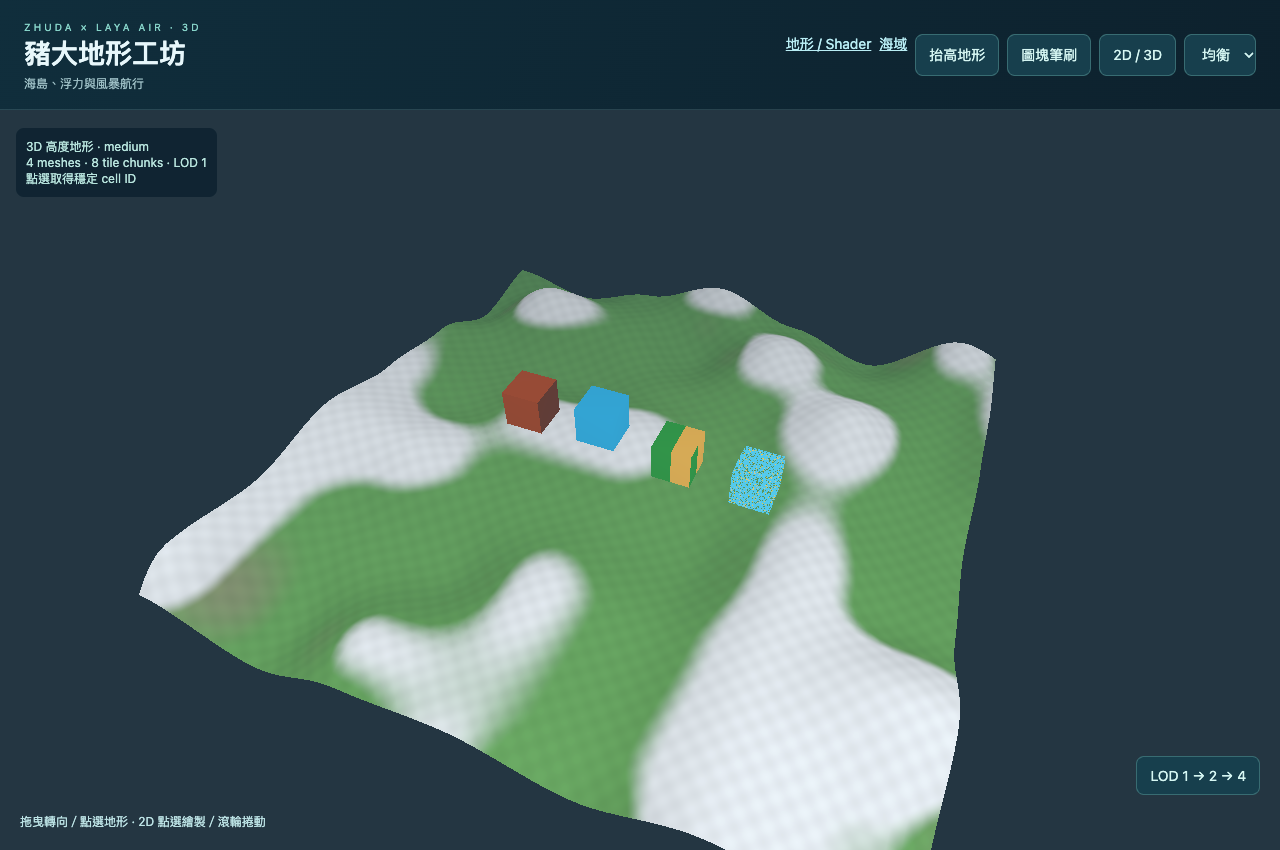
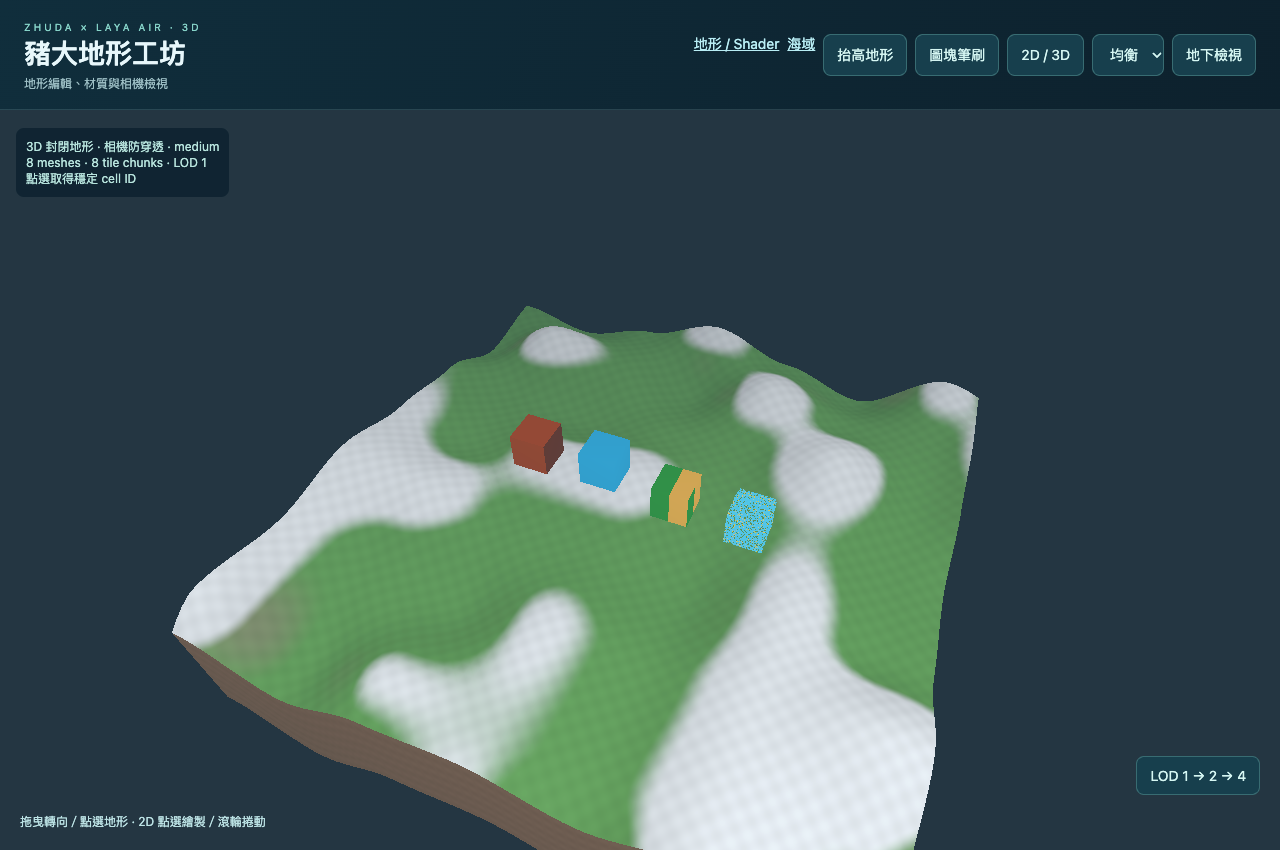
feat: close terrain volumes and add underground inspection

diff --git a/src/TerrainLab.ts b/src/TerrainLab.ts
@@ -36,6 +36,7 @@ export async function terrainMain() {
     mode,
     stride,
     quality,
+    underground,
     field: field.toJSON(),
     tiles: tiles.toJSON(),
   });
@@ -79,7 +80,17 @@ export async function terrainMain() {
       backingHeight: ctx.canvas.height,
     };
   });
-  const terrainShader = new ZhudaShaderMaterial(shaderRecipes.terrain3D),
+  const rockShader = new ZhudaShaderMaterial({
+      ...shaderRecipes.terrain3D,
+      name: "ZhudaTerrainRockShell",
+      uniforms: {
+        ...shaderRecipes.terrain3D.uniforms,
+        u_ZhudaGrass: { type: "vec3", value: [0.22, 0.15, 0.12] },
+        u_ZhudaRock: { type: "vec3", value: [0.36, 0.25, 0.18] },
+        u_ZhudaSnowLine: { type: "float", value: 100 },
+      },
+    }),
+    terrainShader = new ZhudaShaderMaterial(shaderRecipes.terrain3D),
     tint = new ZhudaShaderMaterial(shaderRecipes.tint2D),
     dissolve = new ZhudaShaderMaterial(shaderRecipes.dissolve3D);
   const pixels = new Uint8Array(8 * 4 * 4);
@@ -95,6 +106,10 @@ export async function terrainMain() {
   const textured = new ZhudaShaderMaterial(shaderRecipes.textured3D, {
     u_ZhudaTexture: atlasData,
   });
+  const noFog = new ZhudaShaderMaterial(
+    { ...shaderRecipes.textured3D, name: "ZhudaNoFogFixture", fog: false },
+    { u_ZhudaTexture: atlasData },
+  );
   let field = ZhudaHeightfield.generate({
     cellsX: 64,
     cellsZ: 64,
@@ -135,6 +150,7 @@ export async function terrainMain() {
   let terrain = new ZhudaTerrain3D(field, {
       parent: scene,
       material: terrainShader.material,
+      solid: { depth: 12, material: rockShader.material },
       chunkCells: 32,
       maxResidentChunks: 4,
     }),
@@ -149,6 +165,15 @@ export async function terrainMain() {
   terrain.setRegion(full);
   const queries = new ZhudaSceneQueries();
   let off = queries.register(terrain.queryProvider("terrain", 4));
+  const collision = { queries, radius: 0.5, clearance: 0.3, layerMask: 4 };
+  let underground = false;
+  rig.options.collision = collision;
+  const setUnderground = (value: boolean) => {
+    underground = value;
+    rig.options.collision = value ? undefined : collision;
+    rig.pitch = value ? -0.5 : 0.8;
+    $("underground").textContent = value ? "返回地上／防穿透" : "地下檢視";
+  };
   const pbr = createSurfaceMaterial({
       type: "pbr",
       color: [0.7, 0.3, 0.14, 1],
@@ -190,12 +215,17 @@ export async function terrainMain() {
   const samples: number[] = [];
   const sampleModes: (2 | 3)[] = [];
   const sampleModeFrames = { 2: 0, 3: 0 };
-  const modeFrames={2:0,3:0};
-  let sampleCursor = 0, excludedGaps = 0, totalFrames = 0;
+  const modeFrames = { 2: 0, 3: 0 };
+  let sampleCursor = 0,
+    excludedGaps = 0,
+    totalFrames = 0;
   const profiler = new ZhudaRuntimeProfiler();
-  profiler.attach(ctx.canvas.getContext("webgl2") || ctx.canvas.getContext("webgl"));
+  profiler.attach(
+    ctx.canvas.getContext("webgl2") || ctx.canvas.getContext("webgl"),
+  );
   profiler.beginFrame();
-  let drawCalls = 0, triangles = 0;
+  let drawCalls = 0,
+    triangles = 0;
   const started = performance.now();
   let last = started;
   const view = () => {
@@ -238,6 +268,7 @@ export async function terrainMain() {
     terrain = new ZhudaTerrain3D(field, {
       parent: scene,
       material: terrainShader.material,
+      solid: { depth: 12, material: rockShader.material },
       chunkCells: 32,
       maxResidentChunks: 4,
     });
@@ -253,8 +284,10 @@ export async function terrainMain() {
     changeStride(state.stride || 1);
     setQuality(state.quality || quality);
     setMode(state.mode === 2 ? 2 : 3);
+    setUnderground(state.underground === true);
   };
   const actions = (type: string, state: any) => {
+    if (type === "lab:underground") setUnderground(!underground);
     if (type === "lab:weather") brush();
     if (type === "lab:route") paint();
     if (type === "lab:preview") setMode(mode === 2 ? 3 : 2);
@@ -312,6 +345,11 @@ export async function terrainMain() {
       }
     }
   });
+  const undergroundButton = document.createElement("button");
+  undergroundButton.id = "underground";
+  undergroundButton.textContent = "地下檢視";
+  document.querySelector("header nav")!.appendChild(undergroundButton);
+  undergroundButton.onclick = () => setUnderground(!underground);
   $("label").hidden = true;
   $("hit").textContent = "LOD 1 → 2 → 4";
   $("hit").onclick = () =>
@@ -326,7 +364,8 @@ export async function terrainMain() {
       elapsedSeconds: (performance.now() - started) / 1000,
       activeSeconds: samples.reduce((a, b) => a + b, 0) / 1000,
       frames: samples.length,
-      sampleWindow: "Latest at most 72000 intervals under 5000ms; long gaps excluded",
+      sampleWindow:
+        "Latest at most 72000 intervals under 5000ms; long gaps excluded",
       sampleModeFrames: { ...sampleModeFrames },
       totalFrames,
       excludedGaps,
@@ -342,7 +381,9 @@ export async function terrainMain() {
       dpr: ctx.canvas.width / ctx.canvas.getBoundingClientRect().width,
       mode,
       modeFrames,
-      route:q.has('route'),
+      route: q.has("route"),
+      underground,
+      cameraCollision: !underground,
       terrain: terrain.report(),
       mapChunks: map.residentChunks,
       resources: inspectSceneResources(),
@@ -392,6 +433,9 @@ export async function terrainMain() {
   };
   const api: any = {
     lifecycle,
+    setUnderground,
+    rockShader,
+    noFog,
     invalidShaderFixture,
     ready: true,
     ctx,
@@ -435,9 +479,15 @@ export async function terrainMain() {
   (window as any).terrainLab = api;
   ctx.runtime.start((dt: number) => {
     time += dt;
-    if(q.has('route')){const next:2|3=Math.floor(time/30)%2===0?3:2;if(next!==mode)setMode(next);rig.yaw=time*.06;scroll=(time*16)%900;animate=true;}
+    if (q.has("route")) {
+      const next: 2 | 3 = Math.floor(time / 30) % 2 === 0 ? 3 : 2;
+      if (next !== mode) setMode(next);
+      rig.yaw = time * 0.06;
+      scroll = (time * 16) % 900;
+      animate = true;
+    }
 
-    rig.update({ x: 0, y: 2, z: 0 });
+    rig.update({ x: 0, y: (field.sample(0, 0)?.height ?? 0) + 2, z: 0 });
     const now = performance.now(),
       ms = now - last;
     last = now;
@@ -465,7 +515,7 @@ export async function terrainMain() {
       dissolve.setUniform("u_ZhudaAmount", 0.45 + 0.35 * Math.sin(time));
     if (mode === 2) view();
     $("status").textContent =
-      `${mode === 3 ? "3D 高度地形" : "2D 分塊地圖"} · ${quality}\n${terrain.report().residentChunks} meshes · ${map.residentChunks} tile chunks · LOD ${stride}\n${selected || "點選取得穩定 cell ID"}`;
+      `${mode === 3 ? (underground ? "3D 封閉地形 · 地下檢視" : "3D 封閉地形 · 相機防穿透") : "2D 分塊地圖"} · ${quality}\n${terrain.report().renderMeshes} meshes · ${map.residentChunks} tile chunks · LOD ${stride}\n${selected || "點選取得穩定 cell ID"}`;
     if (now - lastSend > 15000) {
       lastSend = now;
       const r = metrics();

diff --git a/src/Main.ts b/src/Main.ts
@@ -44,9 +44,15 @@ window.addEventListener("error", (e) => {
 if (!q.has("runtime")) {
   if (q.has("terrain")) {
     document.querySelector("h1")!.textContent = "豬大地形工坊";
+    document.querySelector("header div > span")!.textContent = "地形編輯、材質與相機檢視";
     document.querySelector("[data-action=weather]")!.textContent = "抬高地形";
     document.querySelector("[data-action=route]")!.textContent = "圖塊筆刷";
     document.querySelector("[data-action=preview]")!.textContent = "2D / 3D";
+    const below = document.createElement("button");
+    below.dataset.action = "underground";
+    below.textContent = "地下檢視";
+    below.setAttribute("aria-pressed", "false");
+    document.querySelector("header nav")!.appendChild(below);
   }
   document.body.className = "host";
   ($("quality") as HTMLSelectElement).value = q.get("quality") || "medium";
@@ -66,6 +72,11 @@ if (!q.has("runtime")) {
   document.querySelectorAll<HTMLButtonElement>("[data-action]").forEach(
     (b) =>
       (b.onclick = () => {
+        if (b.dataset.action === "underground") {
+          const active = b.getAttribute("aria-pressed") !== "true";
+          b.setAttribute("aria-pressed", String(active));
+          b.textContent = active ? "返回地上／防穿透" : "地下檢視";
+        }
         if (b.dataset.action === "preview" && !q.has("terrain")) {
           $("preview").hidden = false;
           preview?.dispose();

diff --git a/README.md b/README.md
@@ -21,6 +21,10 @@ npm start
 
 地形／shader 驗收頁使用 `?terrain=1`（可加 `&quality=low&route=1`）。它同時建立 2D tile chunks 和 3D heightfield chunks；可切換圖塊筆刷／抬高地形、LOD 1→2→4、atlas tint 與 dissolve shader。畫面中的 cell ID、chunk 數、LOD、raycast 與 shader pixel 變化都由真實 SDK 呼叫產生，並不是靜態展示。
 
+3D 地形已加上沿 local -Y 延伸 12 單位的側壁與底面。正常模式會以相機 boom probes 保持地表外的視角；按「地下檢視」才明確停用相機避障，查看封閉底面。這是擠出的高度場，沒有洞穴／任意體積地形；各 chunk 獨立封口會增加內部側壁成本。
+
+![地表與地下檢視](docs/terrain-solid.jpg)
+
 ```sh
 npm test
 # 非 macOS 可設定 CHROME_PATH 指向 Chromium/Chrome 執行檔
@@ -43,11 +47,11 @@ GAME_URL=http://localhost:8914/ npm test
 - GPU transform feedback：同一份 WAVE_GLSL，四個時間共 256 點；最大高度差約 0.012 mm。這是波浪函式採樣，非整張畫面的逐像素一致。
 - 模型／場景反覆建立與釋放 30 次，資源數保持有界；共享 JPG 仍有效，一個角色受擊不改變另一個同皮膚角色。
 - 實際 depth／opaque camera pass 與低畫質預算拒絕；動態 buffer 更新／bounds、屋頂擋雨、DPR 1／2／3、橫豎屏 CSS 座標、雙指取消／放開、iframe 預覽拆除、WebGL context loss 還原及 opaque sandbox。
-- 最新固定版另以 iPhone 剪貼簿貼入 URL，實體觸控驗證拖曳／放開與受擊按鈕；同皮膚另一角色保持原色，見 `evidence/iphone14-input-check.json`／PNG。
+- 先前固定版另以 iPhone 剪貼簿貼入 URL，實體觸控驗證拖曳／放開與受擊按鈕；同皮膚另一角色保持原色，見 `evidence/iphone14-input-check.json`／PNG。這份手機記錄早於本次地形封口更新。
 - `evidence/iphone14-10min.json`：iPhone 14 Safari 27.0.1，low、DPR 1，614.525 秒有效採樣，36,545 frames；P50 17 ms、P95 20 ms、P99 24 ms，>50 ms 長幀 0。採樣期間自動航行及每 45 秒晴雨交替。
-- `evidence/terrain-report.json`：terrain／shader 的真實 WebGL 回歸，包含 2D atlas UV／tint／透明度／clipping，3D textured／fog／dissolve，跨 chunk 編輯、LOD、世界距離上限、30 次拆除、context loss 和 opaque sandbox。故意錯誤的 GLSL 另保留預期 compile diagnostic。
+- 本次固定 SDK 通過 20 項海域接入及 21 項地形／shader WebGL 檢查。`evidence/terrain-report.json` 包含 2D atlas UV／tint／透明度／clipping，3D textured／fog／dissolve／fog opt-out，跨 chunk 編輯、LOD、底面／側壁查詢、相機避障、世界距離上限、30 次拆除、context loss 和 opaque sandbox。故意錯誤的 GLSL 另保留預期 compile diagnostic。
 - `evidence/terrain-mobile-acceptance.json`：iPhone 14 與 vivo V40 各保存 72,000 筆最近 frame interval，約 20 分鐘樣本；low／DPR1，每 30 個 active 秒切換 2D／3D，帶 camera orbit／map scroll 與 dissolve 動畫。P95 分別 22 ms／19.6 ms，P99 23 ms／21.6 ms；>50 ms 分別 4／85 幀。超過五秒的中斷未納入統計，這不是不中斷的壓測；`modeFrames` 是整個 session 累計，和 rolling sample 的 `frames` 範圍不同。
-- iPhone 以剪貼簿輸入 URL，實機 LOD 按鈕操作後由 1 變 2；雙平台 2D／3D 畫面均已目視確認，截圖保存在 evidence。手機執行的是最終 ray distance 整理前的相同 rendering 切片；固定最終 Git SHA 另外通過桌面回歸。
+- iPhone 以剪貼簿輸入 URL，實機 LOD 按鈕操作後由 1 變 2；雙平台 2D／3D 畫面均已目視確認，截圖保存在 evidence。手機執行的是 ray distance 整理與本次地形封口之前的 rendering 切片；本次固定 Git SHA 通過桌面回歸，尚未重新做手機長時間測試。
 
 海域手機負載固定為 4 角色、1 木筏、1 船、1 雨棚、48 物資與最多 160 雨滴；不是百人完整地圖。地形測試固定為 4 heightfield chunks（LOD1 時共 4,356 vertices）、2D 視野 chunks、4 shader fixture cubes。GPU 時間未量測，資源容量是估算；記錄中的 vendor gpuBytesEstimated 也不是 driver measurement。
 
